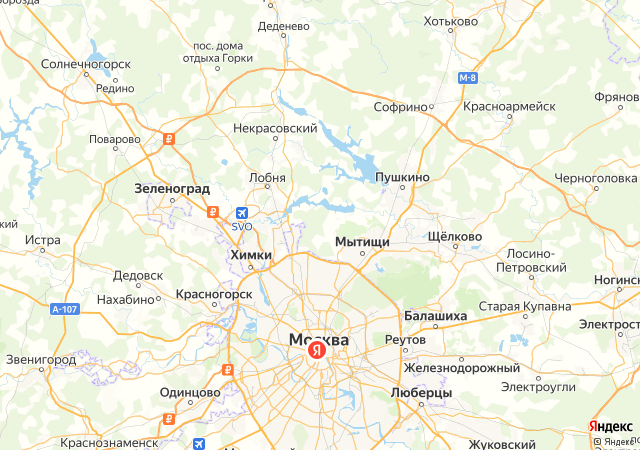
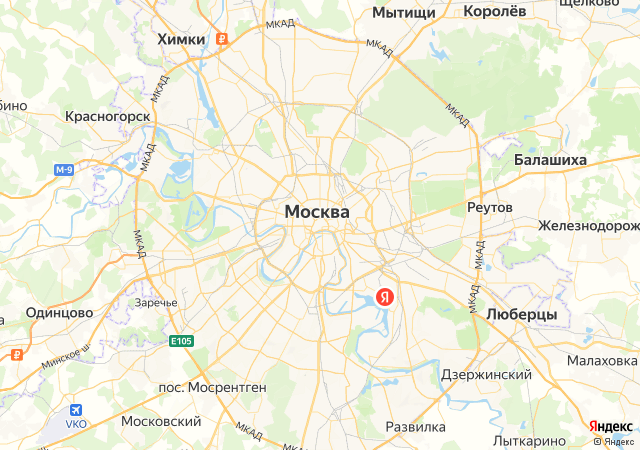
Final Version

diff --git a/main.py b/main.py
@@ -11,6 +11,7 @@ class Example(Ui_MainWindow, QMainWindow):
         super().__init__()
         self.setupUi(self)
         self.static_map_link = 'https://static-maps.yandex.ru/1.x'
+        self.ppo_static_link = 'https://search-maps.yandex.ru/v1'
         self.is_indexing = False
         self.current_index = None
         self.current_address = ''
@@ -22,7 +23,9 @@ class Example(Ui_MainWindow, QMainWindow):
         self.l_number = 0
         self.static_map_params = {'l': self.current_visibility,
                                   'll': f'{str(self.ll[0])},{str(self.ll[1])}',
-                                  'size': '640,450', 'spn': f'{str(self.spn[0])},{str(self.spn[1])}', 'pt': self.pt}
+                                  'size': '640,450',
+                                  'spn': f'{str(self.spn[0])},{str(self.spn[1])}',
+                                  'pt': self.pt}
         self.geocoder_link = 'https://geocode-maps.yandex.ru/1.x'
         self.geocoder_params = {'apikey': '40d1649f-0493-4b70-98ba-98533de7710b',
                                 'geocode': None, 'format': 'json'}
@@ -107,10 +110,34 @@ class Example(Ui_MainWindow, QMainWindow):
             pixels_spn_x = self.spn[0] * 1.5 / 320
             new_coord_x = (really_x - 320) * pixels_spn_x
             ll = f'{self.ll[0] + new_coord_x},{self.ll[1] - new_coord_y}'
-            self.pt = ll + ',ya_ru'
-            self.static_map_params['pt'] = self.pt
-            self.static_map_request()
-            self.search(request=ll)
+            if event.button() == Qt.RightButton:
+                try:
+                    self.geocoder_link = 'https://geocode-maps.yandex.ru/1.x'
+                    self.geocoder_params = {'apikey': '40d1649f-0493-4b70-98ba-98533de7710b',
+                                            'geocode': ll, 'format': 'json'}
+                    self.geocoder_request()
+                    toponym = \
+                    self.response["response"]["GeoObjectCollection"]["featureMember"][0][
+                        "GeoObject"]
+                    toponym_address = toponym["metaDataProperty"]["GeocoderMetaData"]["text"]
+                    params = {'apikey': 'dda3ddba-c9ea-4ead-9010-f43fbc15c6e3',
+                              'text': toponym_address, 'll': ll, 'type': 'biz',
+                              'spn': '0.000000042,0.000000042', 'lang': 'ru_RU',
+                              'results': '1'}
+                    request = requests.get(self.ppo_static_link, params).json()
+                    coord = request['features'][0]['geometry']['coordinates']
+                    self.pt = f'{coord[0]},{coord[1]}' + ',ya_ru'
+                    self.static_map_params['pt'] = self.pt
+                    self.static_map_request()
+                    self.search(request=f'{coord[0]},{coord[1]}')
+                    self.result_search.setText(request['features'][0]['properties']['name'])
+                except IndexError:
+                    pass
+            else:
+                self.pt = ll + ',ya_ru'
+                self.static_map_params['pt'] = self.pt
+                self.static_map_request()
+                self.search(request=ll)
 
     def search(self, request=None):
         if request:
@@ -145,7 +172,8 @@ class Example(Ui_MainWindow, QMainWindow):
                 self.result_search.setText(string)
                 if toponym_address:
                     if not request:
-                        self.ll = [float(toponym_coordinates[0]), float(toponym_coordinates[1])]
+                        self.ll = [float(toponym_coordinates[0]),
+                                   float(toponym_coordinates[1])]
                         self.static_map_params['ll'] = f'{str(self.ll[0])},{str(self.ll[1])}'
                         self.static_map_request()
                         self.update_marker('add')
